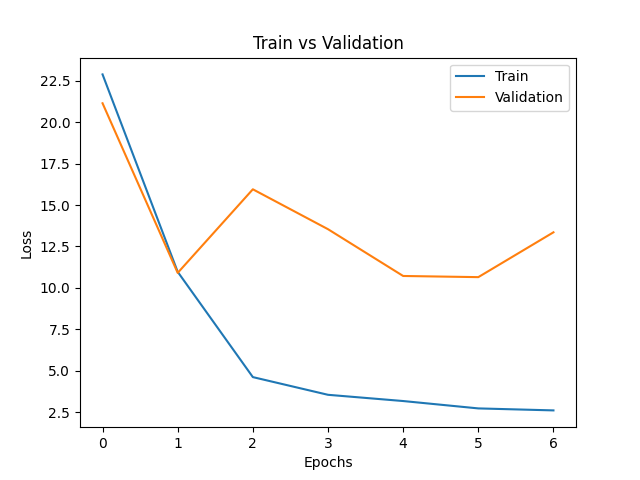
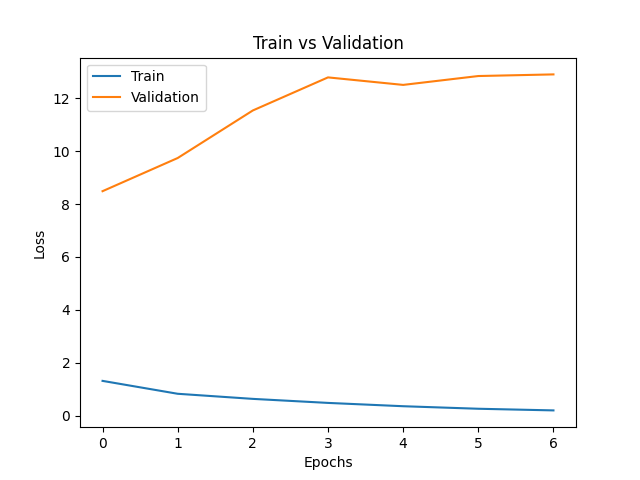
so much overfitting

diff --git a/src/gpt2_finetune_but_classification_backbone.py b/src/gpt2_finetune_but_classification_backbone.py
@@ -121,6 +121,10 @@ def backward_train(mymodel, num_epochs, device, lr, encoder, train_dataloader, v
     
     epoch_list = []
     train_loss_list = []
+    all_train_loss_list = []
+    all_train_ppl_list = []
+    all_val_loss_list = []
+    all_val_ppl_list = []
     train_ppl_list = []
     val_loss_list = []
     val_ppl_list = []
@@ -186,6 +190,8 @@ def backward_train(mymodel, num_epochs, device, lr, encoder, train_dataloader, v
             
             loss = predictions['loss']
             cur_epoch_train_ppl.append(torch.exp(loss).item())
+            all_train_ppl_list.append(torch.exp(loss).item())
+            all_train_loss_list.append(loss.item())
             cur_epoch_train_loss.append(loss.item())
             loss.backward()
 
@@ -250,6 +256,8 @@ def backward_train(mymodel, num_epochs, device, lr, encoder, train_dataloader, v
                 print(f"expected prediction : {expected_pred}\n")
             
             loss = predictions['loss']
+            all_val_loss_list.append(loss.item())
+            all_val_ppl_list.append(torch.exp(loss).item())
             cur_epoch_val_ppl.append(torch.exp(loss).item())
             cur_epoch_val_loss.append(loss.item())
         
@@ -306,8 +314,10 @@ def backward_train(mymodel, num_epochs, device, lr, encoder, train_dataloader, v
     print(f" - Dead loss metrics: {test_loss}")
     print(f" - Dead perplexity metrics: {test_ppl}")
 
-    plot(train_loss_list, val_loss_list, 'Train vs Validation Loss Graph Alpaca', False)
-    plot(train_ppl_list, val_ppl_list, 'Train vs Validation Perpexity Graph Alpaca', True)
+    plot(train_loss_list, val_loss_list, 'Train vs Validation Loss Graph Alpaca per Epoch', False)
+    plot(train_ppl_list, val_ppl_list, 'Train vs Validation Perpexity Graph Alpaca per Epoch', True)
+    plot(all_train_loss_list, all_val_loss_list, 'Train vs Validation Loss Graph Alpaca per Batch', False)
+    plot(all_train_ppl_list, all_val_ppl_list, 'Train vs Validation Perpexity Graph Alpaca per Batch', True)
 
 def plot(train_list, valid_list, name, is_ppl):
     
@@ -343,8 +353,8 @@ if __name__ == "__main__":
     parser = argparse.ArgumentParser()
     parser.add_argument("--small_subset",action='store_true', default=False)
     parser.add_argument("--is_backward",action='store_true', default=False)
-    parser.add_argument("--num_epochs", type=int, default=7)
-    parser.add_argument("--lr", type=float, default=1e-5)
+    parser.add_argument("--num_epochs", type=int, default=4)
+    parser.add_argument("--lr", type=float, default=5e-6)
     parser.add_argument("--batch_size", type=int, default=8)
     parser.add_argument("--max_length", type=int, default=100)
 

diff --git a/src/gpt2_finetune.py b/src/gpt2_finetune.py
@@ -120,13 +120,15 @@ def load_datasets(is_core, encoder, is_backward, batch_size,
     data = read_json(data_path)
     print(data[0])
     train_len, val_len = int(len(data) * train_val_ratios[0]), int(len(data) * train_val_ratios[1])
-
+    # TODO change back the two variables :( 
+    train_len = 100
+    val_len = 20 
     train_dataset = OpenGPT2Dataset(data[:train_len], device, encoder=encoder, is_backward=is_backward,
                                     max_length=max_length, is_train=True)
     val_dataset = OpenGPT2Dataset(data[train_len:train_len + val_len], device, encoder=encoder, is_backward=is_backward,
                                     max_length=max_length, is_train=False)
-    # TODO change back :) - i did 
-    test_dataset = OpenGPT2Dataset(data[train_len + val_len:], device, encoder=encoder, is_backward=is_backward,
+    # TODO change the 140 back :) - i did 
+    test_dataset = OpenGPT2Dataset(data[train_len + val_len:140], device, encoder=encoder, is_backward=is_backward,
                                     max_length=max_length, is_train=False)
     
     train_dataloader = DataLoader(train_dataset, batch_size=batch_size, shuffle=True)
